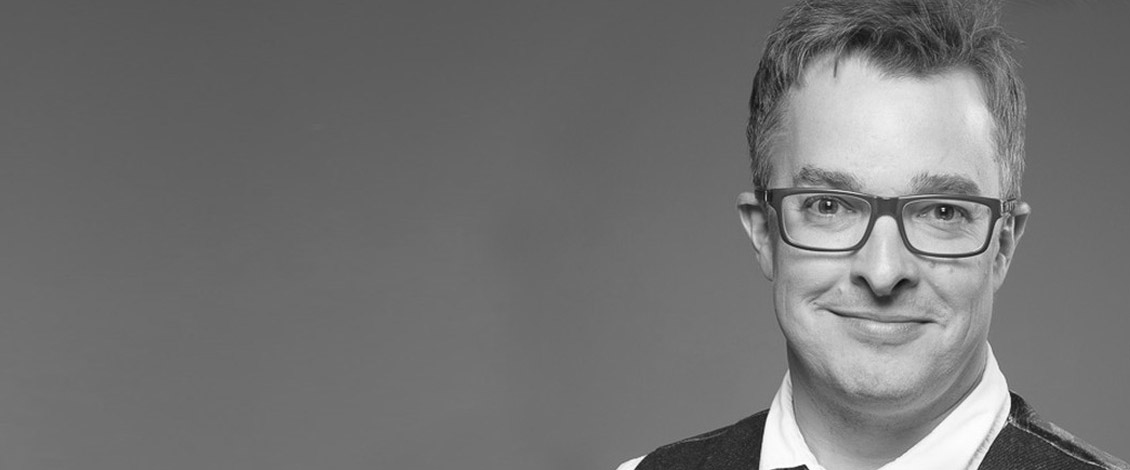
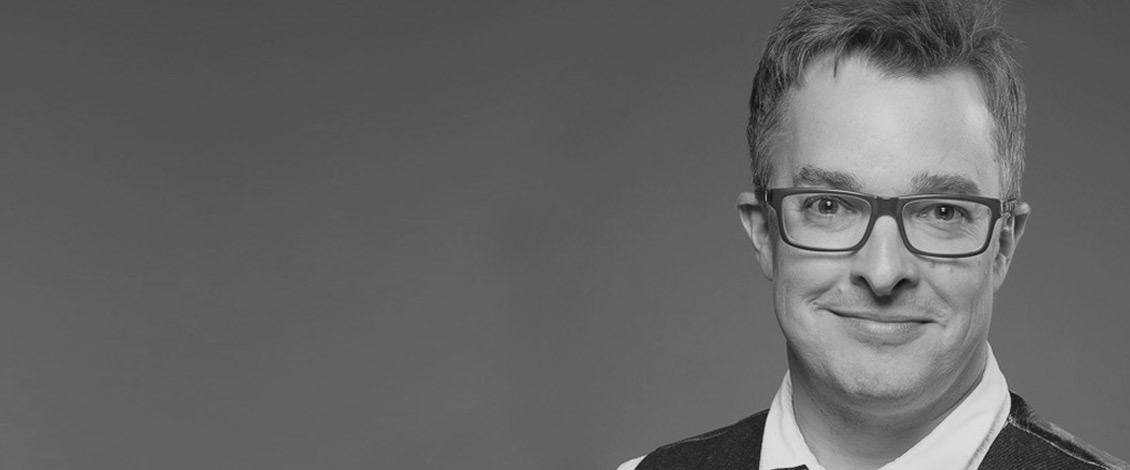
small changes to improve mobile version

diff --git a/src/components/Content/pages/CaseStudies.vue b/src/components/Content/pages/CaseStudies.vue
@@ -24,7 +24,7 @@
       <!-- +++++++++++++++++++++++++++++++++ -->
      
       <!-- Testimonials Section -->
-      <div class="container mt-0 mt-md-10 mb-5" :style="bannerBg" >
+      <div class="container mb-5 mt-8" :style="bannerBg" >
         <div class="row">
           <div class="col-md-6">
 
@@ -33,10 +33,10 @@
               <div class="row">
                 <div class="col-md-12 position-relative z-index-2">
                   <div class="mb-4">
-                    <h1 class="display-5 text-white font-weight-normal">As soon I saw the platform I knew we had to have it.</h1>
+                    <h1 class="display-5 text-white font-weight-normal title">As soon I saw the platform I knew we had to have it.</h1>
                   </div>
                   
-                  <p class="lead text-white">Jeremy Waite – Chief Strategy Officer at IBM</p>
+                  <p class="lead text-white subtitle">Jeremy Waite – Chief Strategy Officer at IBM</p>
 
                   <!-- Fancybox -->
                   <a class="js-fancybox btn btn-primary transition-3d-hover mb-2 mb-sm-0 mr-sm-2" href="javascript:;"
@@ -139,7 +139,7 @@
       return {
         bannerBg : {
           backgroundImage : 'url('+require('@/assets/buzzradar/img/casestudies/ibm_banner_case_study.jpg')+')',
-          backgroundPosition: 'left',
+          backgroundPosition: 'right',
         },
         filtersLibrary : {
           "brand-management" : {
@@ -266,6 +266,10 @@
     img{
       transform: scale(1.02,1.02);
     }
+  }
+
+  .title, .subtitle{
+    text-shadow: 0px 0px 3px #000000;
   }
 
 </style>

diff --git a/src/components/Content/pages/aboutUs/Careers.vue b/src/components/Content/pages/aboutUs/Careers.vue
@@ -20,16 +20,16 @@
       <!-- All Case Studies (Cube Portfolio) -->
       <!-- +++++++++++++++++++++++++++++++++ -->
 
-      <div class="container space-2 space-top-md-5 space-top-lg-3">
+      <div class="container space-2 space-top-md-2">
 
         <div class="row">
 
           <!-- Job Positions -->
-          <div id="jobPositions" class="container space-2 space-top-md-0">
+          <div id="jobPositions" class="container">
             <!-- Title -->
-            <div class="w-md-80 w-lg-60 text-center mx-md-auto mb-5">
+            <div class="w-md-80 w-lg-60 text-center mx-md-auto mb-5 mt-5">
               
-              <h1 class="font-weight-normal">Become part of the<br><span class="text-primary font-weight-semi-bold">Buzz Radar</span> team</h1>
+              <h1 class="font-weight-normal">Become part of <br><span class="text-primary font-weight-semi-bold">Buzz Radar</span> team</h1>
 
               <p>People are at the centre of everything we do. We’re a creative, passionate and dedicated group, who live to create awesome stuff and have fun doing it. The team is tight-knit and excited about helping people gain insight from their data through innovative, creative solutions.</p>
             </div>
@@ -95,9 +95,6 @@
     },
     methods: {
       routeContains(currentRoute,matchingRoute) {
-
-        console.log('----------------------------------------');
-        console.log(currentRoute, matchingRoute);
         return currentRoute.includes(matchingRoute);
       },
     }

diff --git a/src/components/Content/pages/aboutUs/Faq.vue b/src/components/Content/pages/aboutUs/Faq.vue
@@ -144,7 +144,7 @@
     data : function() {
 
       AllFaqsEntries.faqs.forEach(function(element) {
-        console.log( escape(element.copy));
+        //console.log( escape(element.copy));
       });
 
       return {
